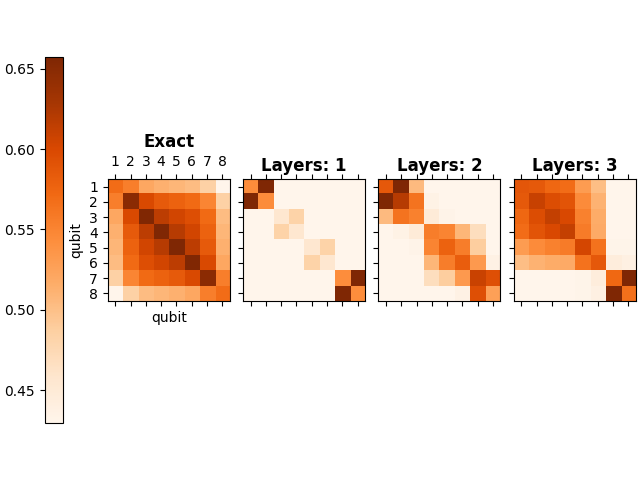
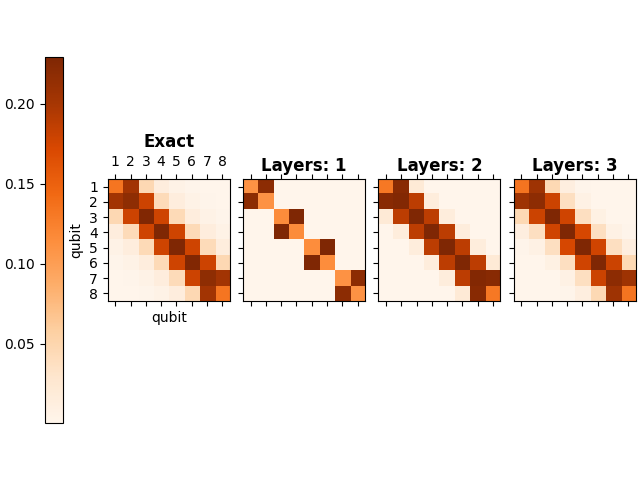
optimization updated

diff --git a/Luca/Coding and Latex/Python/BrickWall_51.py b/Luca/Coding and Latex/Python/BrickWall_51.py
@@ -71,11 +71,12 @@ class BrickWallCircuit:
 		E = np.tensordot(secondHalfCircuit.computeUsingTensorDot(MOriginal = self.M),firstHalfCircuit.computeUsingTensorDot(gatesWithQubitsIndices = firstHalfCircuit.gates),axes = (qubitsToContract,qubitsToContract)) #4 legs
 		return E, self.gates[indexOfGate] #return gate removed only for checking purposes
 
-	def optimize(self,psiTarget,minChangeInOverlap, maxCycles):
+	def optimize(self,psiTarget,minPerChange, maxCycles):
 		cycles = 0
 		breakFlag = False
 		while True: #keep going through cycles until desired accuracy is reached, this simulates a do-while loop
 			oldOverlap = np.abs(np.tensordot(self.computeUsingTensorDot(),np.conjugate(psiTarget),self.N))
+			oldError = 1-oldOverlap
 			for indexLayer in range(self.M): #iterate through layers
 				nrGatesOnLayer = int(np.floor((self.N-indexLayer%2)/2))
 				for gateIndex in range(nrGatesOnLayer): #iterate through gates on that layer
@@ -85,9 +86,9 @@ class BrickWallCircuit:
 
 					oldGateOverlap = np.abs(np.tensordot(E,gateRm,4)) #overap with old gate
 					newGateOverlap = np.abs(np.tensordot(E,newGate,4)) #overlap with new gate
-					print(oldGateOverlap,newGateOverlap)
+					#print(oldGateOverlap,newGateOverlap)
 
-					if newGateOverlap < oldGateOverlap:
+					if newGateOverlap < oldGateOverlap and np.abs(newGateOverlap-oldGateOverlap)>10**(-6):
 						raise Exception(f'overlap decreased, something went wrong at cycle {cycles+1}')
 			
 					self.gates = [newGate if (gate == gateRm).all() else gate for gate in self.gates] #updates gates with the new gate added instead of old one
@@ -99,9 +100,10 @@ class BrickWallCircuit:
 					break
 
 			changeInOverlap = newGateOverlap - oldOverlap #changeInOverlap at end of cycle
-			precision = 1-newGateOverlap
+			percentageChange = changeInOverlap/oldError #percentage change in error = 1-overlap
+			newError = 1-newGateOverlap
 			cycles += 1
-			if (changeInOverlap < minChangeInOverlap and precision<0.2) or cycles > maxCycles or breakFlag:
+			if (percentageChange < minPerChange and newError<0.1) or cycles > maxCycles or breakFlag:
 				break
 		print(cycles, changeInOverlap)
 		return self.computeUsingTensorDot()

diff --git a/Luca/Coding and Latex/Python/plots_9.py b/Luca/Coding and Latex/Python/plots_9.py
@@ -5,7 +5,7 @@ import Entropy as en
 import matplotlib.pyplot as plt
 
 N = 8
-psiTarget = ed.exactDiag(N, 1, 0.5)[1].reshape(tuple([2]*N))
+psiTarget = ed.exactDiag(N, 1, 1.5)[1].reshape(tuple([2]*N))
 
 def plotS(psiTarget,layers):
 	N = len(psiTarget.shape)
@@ -18,7 +18,7 @@ def plotS(psiTarget,layers):
 
 	for layer in layers:
 		circuit = bw.BrickWallCircuit(N, layer)
-		approx = circuit.optimize(psiTarget,0.00001,1000)
+		approx = circuit.optimize(psiTarget,0.00001,1000*layer)
 
 		enApprox = [en.S(range(1,i+1), approx) for i in bond]
 
@@ -45,7 +45,7 @@ def plotMatrixI(psiTarget,layers):
 
 	for layer in layers:
 		circuit = bw.BrickWallCircuit(8, layer)
-		approx = circuit.optimize(psiTarget,0.00001,1000)
+		approx = circuit.optimize(psiTarget,0.00001,1000*layer)
 		matrixApprox = en.matrixI(approx) 
 
 		axs[layer].matshow(matrixApprox,cmap=plt.cm.Oranges)
@@ -74,7 +74,7 @@ def plotJ(psiTarget,layers,log=False):
 
 	for layer in layers:
 		circuit = bw.BrickWallCircuit(N, layer)
-		approx = circuit.optimize(psiTarget,0.00001,1000)
+		approx = circuit.optimize(psiTarget,0.00001,1000*layer)
 		approxJ = np.array([en.J(dist, approx) for dist in d])
 
 		if log:

diff --git a/Luca/Coding and Latex/Python/testing.py b/Luca/Coding and Latex/Python/testing.py
@@ -3,7 +3,7 @@ import BrickWall_51 as bw
 import ExactDiag_21 as ed
 import Entropy as en
 
-circuit = bw.BrickWallCircuit(8,1, gatesRandomFlag=False)
+circuit = bw.BrickWallCircuit(8,3, gatesRandomFlag=False)
 psiTarget = ed.exactDiag(circuit.N, 1.5, 1)[1].reshape(tuple([2]*circuit.N))
 #psiTarget = (1/np.sqrt(2))*np.array([1,0,0,1]).reshape(2,2) #bell state
 # A = [1,4,5]
@@ -17,4 +17,4 @@ psiTarget = ed.exactDiag(circuit.N, 1.5, 1)[1].reshape(tuple([2]*circuit.N))
 
 # print(np.array(en.matrixI(psiTarget)))
 
-circuit.optimize(psiTarget,0.000001,200)
+circuit.optimize(psiTarget,0.0001,500)
